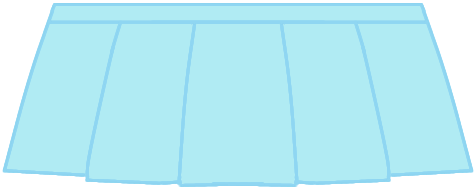
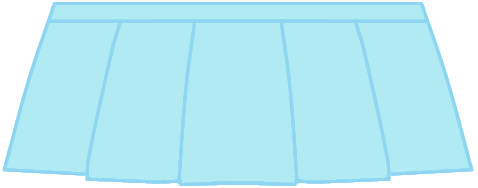
fix: remove skirt option

diff --git a/src/components/LayerRenderers.jsx b/src/components/LayerRenderers.jsx
@@ -2,52 +2,52 @@ import { CLOTHES } from '@/constants/clothes';
 import { HAIR_OPTIONS } from '@/constants/hair';
 import CanvasImageLayer from '@/components/CanvasImageLayer';
 
-const CLOTHES_CATEGORY_ORDER = { pant: 0, skirt: 1, shirt: 2 };
+const CLOTHES_CATEGORY_ORDER = { shirt: 0, pant: 1 };
 
 const CATEGORY_CONFIG = {
   hair_bottom: {
     multi: false,
     selectionKey: 'hair',
-    srcTemplate: (id) => `/hair-bottom/${id}.png`,
-    guard: (sel) => {
-      const opt = HAIR_OPTIONS.find((h) => h.id === sel);
+    srcTemplate: id => `/hair-bottom/${id}.png`,
+    guard: sel => {
+      const opt = HAIR_OPTIONS.find(h => h.id === sel);
       return opt?.hasBottom ?? false;
-    },
+    }
   },
   clothes: {
     multi: true,
     selectionKey: 'clothes',
-    srcTemplate: (id) => `/clothes/${id}.png`,
-    sort: (ids) =>
+    srcTemplate: id => `/clothes/${id}.png`,
+    sort: ids =>
       [...ids].sort((a, b) => {
-        const catOf = (id) => CLOTHES.find((c) => c.id === id)?.category ?? '';
+        const catOf = id => CLOTHES.find(c => c.id === id)?.category ?? '';
         return (
           (CLOTHES_CATEGORY_ORDER[catOf(a)] ?? 99) -
           (CLOTHES_CATEGORY_ORDER[catOf(b)] ?? 99)
         );
-      }),
+      })
   },
   accessory: {
     multi: true,
     selectionKey: 'accessory',
-    srcTemplate: (id) => `/accessory/${id}.png`,
-    passesRotation: true,
+    srcTemplate: id => `/accessory/${id}.png`,
+    passesRotation: true
   },
   hair: {
     multi: false,
     selectionKey: 'hair',
-    srcTemplate: (id) => `/hair-top/${id}.png`,
+    srcTemplate: id => `/hair-top/${id}.png`
   },
   version: {
     multi: false,
     selectionKey: 'version',
-    srcTemplate: (id) => `/version/${id}.png`,
-  },
+    srcTemplate: id => `/version/${id}.png`
+  }
 };
 
 const DEFAULT_CONFIG = {
   multi: false,
-  srcTemplate: (id, category) => `/${category}/${id}.png`,
+  srcTemplate: (id, category) => `/${category}/${id}.png`
 };
 
 function getConfig(category) {
@@ -56,7 +56,7 @@ function getConfig(category) {
     return {
       ...DEFAULT_CONFIG,
       ...specific,
-      selectionKey: specific.selectionKey ?? category,
+      selectionKey: specific.selectionKey ?? category
     };
   }
   return { ...DEFAULT_CONFIG, selectionKey: category };
@@ -69,7 +69,7 @@ export function renderLayer(selections, getLayerProps, category) {
   if (config.multi) {
     const ids = sel ? (config.sort ? config.sort(sel) : sel) : [];
     if (ids.length === 0) return null;
-    return ids.map((id) => {
+    return ids.map(id => {
       const props = getLayerProps(category, id);
       if (!props) return null;
       return (
@@ -80,7 +80,7 @@ export function renderLayer(selections, getLayerProps, category) {
           y={props.y}
           width={props.width}
           height={props.height}
-          rotation={config.passesRotation ? (props.rotation || 0) : 0}
+          rotation={config.passesRotation ? props.rotation || 0 : 0}
         />
       );
     });
@@ -100,7 +100,7 @@ export function renderLayer(selections, getLayerProps, category) {
       y={props.y}
       width={props.width}
       height={props.height}
-      rotation={config.passesRotation ? (props.rotation || 0) : 0}
+      rotation={config.passesRotation ? props.rotation || 0 : 0}
     />
   );
 }

diff --git a/src/app/design/_components/ClothesSelector.jsx b/src/app/design/_components/ClothesSelector.jsx
@@ -16,27 +16,19 @@ export default function ClothesSelector({ onContinue }) {
       const isSelected = currentClothes.includes(item.id);
 
       if (isSelected) {
-        // Deselect item
         return {
           ...prev,
           clothes: currentClothes.filter(id => id !== item.id)
         };
       }
 
-      // Select new item
-      const newClothes =
-        item.category === 'skirt'
-          ? [item.id]
-          : [
-              ...currentClothes.filter(id => {
-                const config = CLOTHES.find(c => c.id === id);
-                if (!config) return false;
-                if (config.category === 'skirt') return false;
-                if (config.category === item.category) return false; // Replace old shirt/pant with new selection
-                return true;
-              }),
-              item.id
-            ];
+      const newClothes = [
+        ...currentClothes.filter(id => {
+          const config = CLOTHES.find(c => c.id === id);
+          return config && config.category !== item.category;
+        }),
+        item.id
+      ];
 
       return {
         ...prev,
@@ -50,7 +42,7 @@ export default function ClothesSelector({ onContinue }) {
   return (
     <>
       <p className='text-xs text-muted-foreground font-semibold mb-4 tracking-wide'>
-        {canChoose ? 'Choose clothes' : 'Not available for Classic Version'}
+        {canChoose ? 'Choose clothes' : 'Not available for Economy Version'}
       </p>
 
       <div

diff --git a/src/constants/clothes.js b/src/constants/clothes.js
@@ -5,7 +5,7 @@ export const CLOTHES = [
   { id: 'C04', label: 'Clothes C04', category: 'shirt' },
   { id: 'C05', label: 'Clothes C05', category: 'pant' },
   { id: 'C06', label: 'Clothes C06', category: 'shirt' },
-  { id: 'C07', label: 'Clothes C07', category: 'skirt' },
+  { id: 'C07', label: 'Clothes C07', category: 'pant' },
   { id: 'C08', label: 'Clothes C08', category: 'shirt' },
   { id: 'C09', label: 'Clothes C09', category: 'pant' }
 ];
